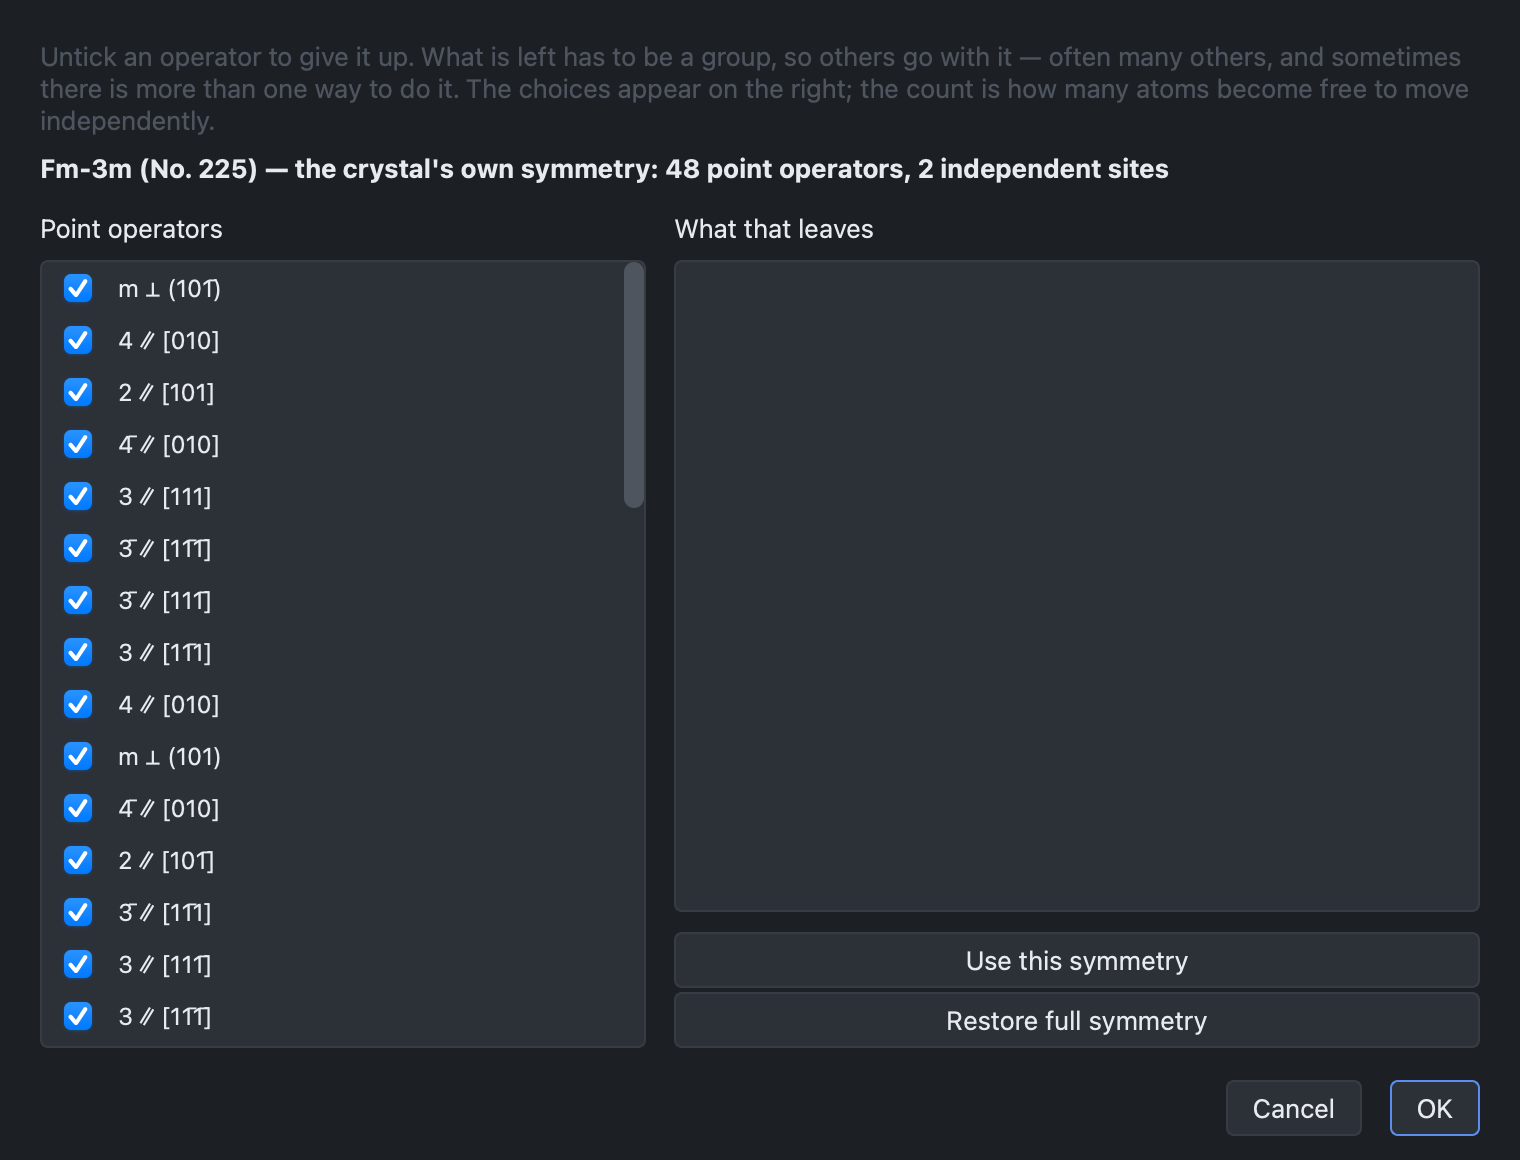
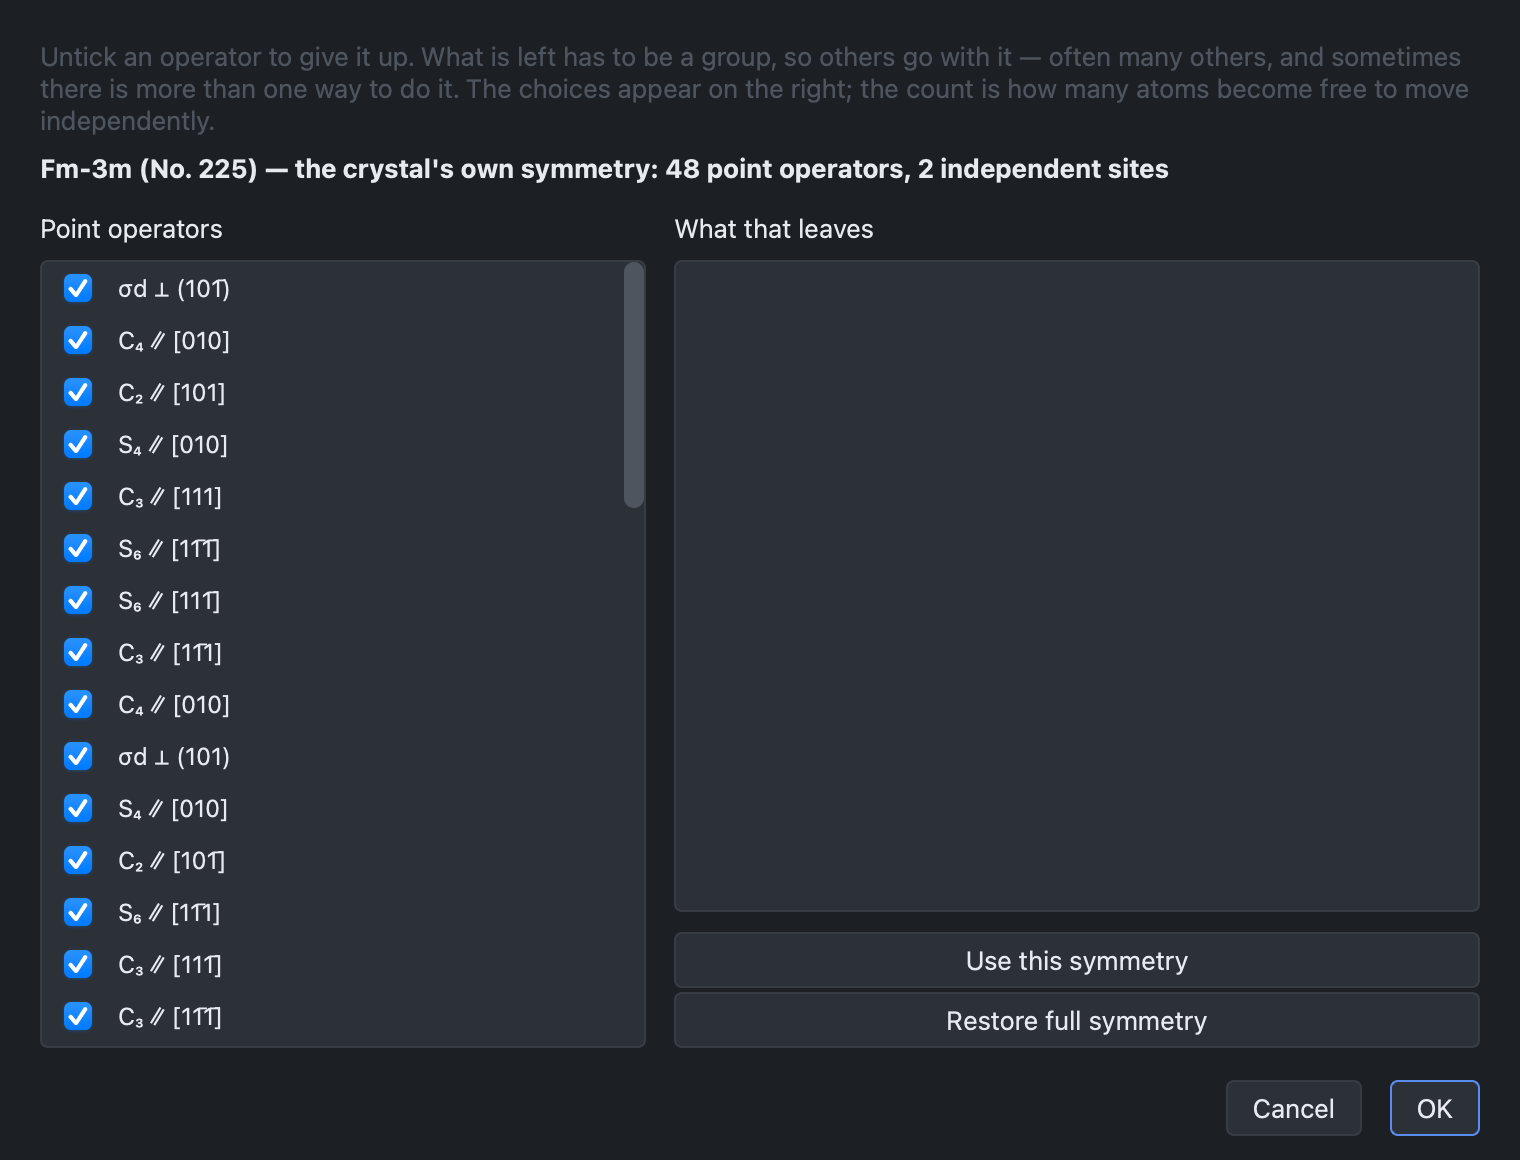
Name the reduction dialog's operators in Schoenflies too
The point-symmetry panel was moved to the chemist's notation; the Reduce
symmetry dialog was not, because it labels its operators itself — one row per
distinct rotation, with the direction it acts along, from its own call to the
classifier. It still read 4 ∥ [010] and 1̄ where the panel beside it read C₄ and
i. Now both say the same thing: E, C₄, C₃, C₂, S₄, S₆, σₕ, σd, i, which is the
48 of Fm-3m.

Telling the mirrors apart needed the naming to count axes rather than
operators. A list of operators holds a 4-fold axis twice, as its 90° and 270°
rotations, so the group looked as though it had two principal axes and the
horizontal and dihedral planes went unnamed. Directions are grouped first, each
keeping the highest order found on it.

diff --git a/src/crystalline/core/symmetry_reduction.py b/src/crystalline/core/symmetry_reduction.py
@@ -52,8 +52,8 @@ class Operator:
 
     ``rotation`` is the integer matrix in the conventional cell's own basis,
     which is how spglib gives it and how it must go back to spglib to be named.
-    ``label`` is the crystallographic symbol with the direction it acts along —
-    "4 ∥ [001]", "m ⊥ [110]", "1̄" — because "operator 17" is no use to anyone.
+    ``label`` is the Schoenflies symbol with the direction it acts along —
+    "C₄ ∥ [001]", "σᵥ ⊥ [110]", "i" — because "operator 17" is no use to anyone.
     """
 
     rotation: np.ndarray
@@ -154,7 +154,7 @@ def analyse(structure: Structure, symprec: float = 1e-2) -> Optional[Symmetry]:
         numbers=numbers,
         rotations=rotations,
         translations=translations,
-        operators=_label_operators(rotations, lattice),
+        operators=_label_operators(rotations, lattice, positions),
         number=int(kind["number"]) if kind else 1,
         symbol=str(kind["international_short"]) if kind else "P1",
     )
@@ -432,33 +432,46 @@ def _conventional(structure: Structure, symprec: float):
             np.asarray([site.specie.Z for site in conventional], dtype=int))
 
 
-def _label_operators(rotations: np.ndarray, lattice: np.ndarray) -> Tuple[Operator, ...]:
+def _label_operators(rotations: np.ndarray, lattice: np.ndarray,
+                     positions: np.ndarray) -> Tuple[Operator, ...]:
     """Name each distinct rotation, using the panel's own classifier.
 
     The classifier works in cartesian Å — the same frame the elements are drawn
     in — so the label beside a tick box is the label beside the axis in the 3D
-    view, and no one has to work out which is which.
+    view, and no one has to work out which is which. Schoenflies, as the panel
+    names them: C₄, σ, i, S₄.
     """
     from crystalline.core import symmetry as symmetry_module
 
     basis = np.asarray(lattice, dtype=float).T
     inverse = np.linalg.inv(basis)
-    operators: Dict[bytes, Operator] = {}
+    identities: Dict[bytes, Operator] = {}
+    elements: Dict[bytes, object] = {}
+    matrices: Dict[bytes, np.ndarray] = {}
     for rotation in rotations:
         token = _key(rotation)
-        if token in operators:
+        if token in elements or token in identities:
             continue
+        matrices[token] = np.asarray(rotation, dtype=int)
         cartesian = basis @ np.asarray(rotation, dtype=float) @ inverse
-        element = symmetry_module._classify(cartesian, np.zeros(3), schoenflies=False)
+        element = symmetry_module._classify(cartesian, np.zeros(3), schoenflies=True)
         if element is None:                      # the identity classifies as nothing
-            operators[token] = Operator(np.asarray(rotation, dtype=int), "1",
-                                        "identity", 1, True)
+            identities[token] = Operator(matrices[token], "E", "identity", 1, True)
             continue
+        elements[token] = element
+
+    # σₕ, σᵥ and σd as the panel tells them apart, which needs the whole set and
+    # the atoms: it is done here rather than operator by operator.
+    cartesian_positions = np.asarray(positions, dtype=float) @ np.asarray(lattice, dtype=float)
+    symmetry_module._name_planes(list(elements.values()), cartesian_positions)
+
+    operators: Dict[bytes, Operator] = dict(identities)
+    for token, element in elements.items():
         # _site_text is what puts "∥ [001]" on a panel row; without it every
-        # 2-fold axis of a cubic crystal is a row reading "2".
+        # 2-fold axis of a cubic crystal is a row reading "C₂".
         site = symmetry_module._site_text(element, lattice)
         operators[token] = Operator(
-            rotation=np.asarray(rotation, dtype=int),
+            rotation=matrices[token],
             label=f"{element.label} {site}".strip(),
             noun=element.noun,
             order=element.order,

diff --git a/src/crystalline/core/symmetry.py b/src/crystalline/core/symmetry.py
@@ -544,20 +544,23 @@ def _name_planes(elements: Sequence[SymmetryElement], positions) -> None:
     planes = [e for e in elements if e.kind == PLANE and e.direction is not None]
     if not axes or not planes:
         return
-    highest = max(axis.order for axis in axes)
-    principal = [axis for axis in axes if axis.order == highest]
+    # By direction, not by element: a list of operators rather than of merged
+    # elements holds a 4-fold axis twice, as its 90° and 270° rotations, and
+    # counting those as two axes would lose the principal one.
+    directions = _axis_directions(axes)
+    highest = max(order for _d, order in directions)
+    principal = [d for d, order in directions if order == highest]
     if len(principal) != 1:
         _name_cubic_planes(elements, planes, axes)
         return
-    axis = principal[0].direction
-    perpendicular = [e for e in axes
-                     if e.order == 2 and e.direction is not None
-                     and _perpendicular(e.direction, axis)]
+    axis = principal[0]
+    perpendicular = [d for d, order in directions
+                     if order == 2 and _perpendicular(d, axis)]
     # Which of those are the primed axes: the ones through atoms. In D₆ₕ every
     # vertical plane contains a two-fold axis, so "contains one" cannot separate
     # σᵥ from σd — benzene's σᵥ hold the axes through opposite carbons, its σd
     # the ones through opposite bonds.
-    named = [e for e in perpendicular if _holds_an_atom(e.direction, positions)] or perpendicular
+    named = [d for d in perpendicular if _holds_an_atom(d, positions)] or perpendicular
 
     for plane in planes:
         normal = plane.direction
@@ -566,11 +569,24 @@ def _name_planes(elements: Sequence[SymmetryElement], positions) -> None:
         elif _perpendicular(normal, axis):
             # It contains the principal axis. Vertical if it also contains one
             # of the named two-fold axes; dihedral if it bisects them.
-            holds_twofold = any(_perpendicular(normal, e.direction) for e in named)
+            holds_twofold = any(_perpendicular(normal, d) for d in named)
             if not perpendicular or holds_twofold:
                 _rename(plane, "σᵥ", "vertical mirror plane")
             else:
                 _rename(plane, "σd", "dihedral mirror plane")
+
+
+def _axis_directions(axes) -> List[Tuple[np.ndarray, int]]:
+    """One entry per distinct axis: its direction and the highest order on it."""
+    found: List[List] = []
+    for axis in axes:
+        for entry in found:
+            if _parallel(entry[0], axis.direction):
+                entry[1] = max(entry[1], axis.order)
+                break
+        else:
+            found.append([_unit(axis.direction), axis.order])
+    return [(direction, order) for direction, order in found]
 
 
 def _name_cubic_planes(elements, planes, axes) -> None:

diff --git a/tests/test_symmetry_reduction.py b/tests/test_symmetry_reduction.py
@@ -51,13 +51,23 @@ def test_a_molecule_has_no_crystal_symmetry_to_reduce():
 
 
 def test_every_operator_is_named_with_the_direction_it_acts_along():
-    """"2" is four different operators in a cubic crystal; "2 ∥ [110]" is one."""
+    """"C₂" is four different operators in a cubic crystal; "C₂ ∥ [110]" is one."""
     symmetry = reduction.analyse(_mgo())
     labels = [op.label for op in symmetry.operators]
     assert len(labels) == 48
-    assert "1̄" in labels
-    axes = [label for label in labels if label.startswith("2 ")]
+    assert "i" in labels
+    axes = [label for label in labels if label.startswith("C₂ ")]
     assert len(axes) > 1 and all("∥" in label for label in axes)
+
+
+def test_the_operators_are_named_in_schoenflies():
+    """The dialog lists what the point-symmetry panel lists, in the notation a
+    chemist reads: E, C₄, S₆, σₕ, i — not 1, 4, 3̄, m, 1̄."""
+    symmetry = reduction.analyse(_mgo())
+    symbols = {op.label.split()[0] for op in symmetry.operators}
+
+    assert symbols == {"E", "C₄", "C₃", "C₂", "S₄", "S₆", "σₕ", "σd", "i"}
+    assert not symbols & {"1", "2", "3", "4", "m", "1̄", "3̄", "4̄"}
 
 
 # ── the group theory, against the tables ──────────────────────────────────
@@ -96,7 +106,7 @@ def test_what_was_removed_is_reported_without_repeating_itself():
     symmetry = reduction.analyse(_mgo())
     inversion = _operator(symmetry, -np.eye(3, dtype=int))
     option = reduction.subgroups_without(symmetry, [inversion.rotation])[0]
-    assert "1̄" in option.dropped
+    assert "i" in option.dropped
     assert len(option.dropped) == len(set(option.dropped))
     assert any("×" in entry for entry in option.dropped), "repeats should be counted"
 
